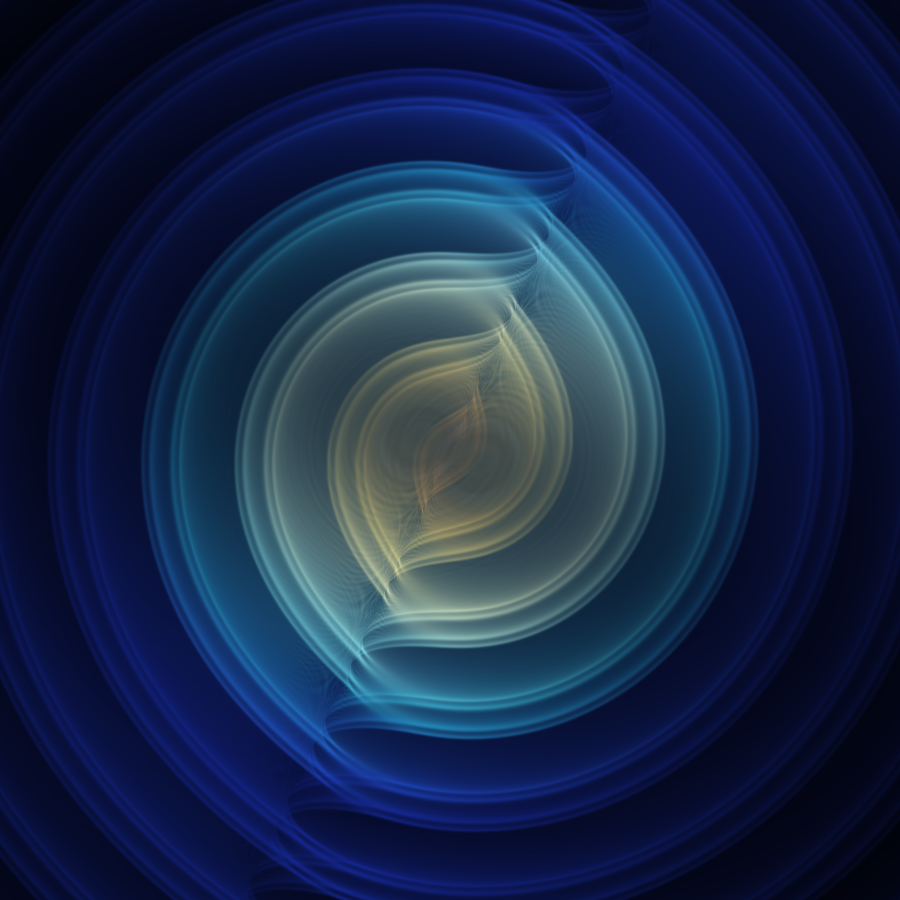
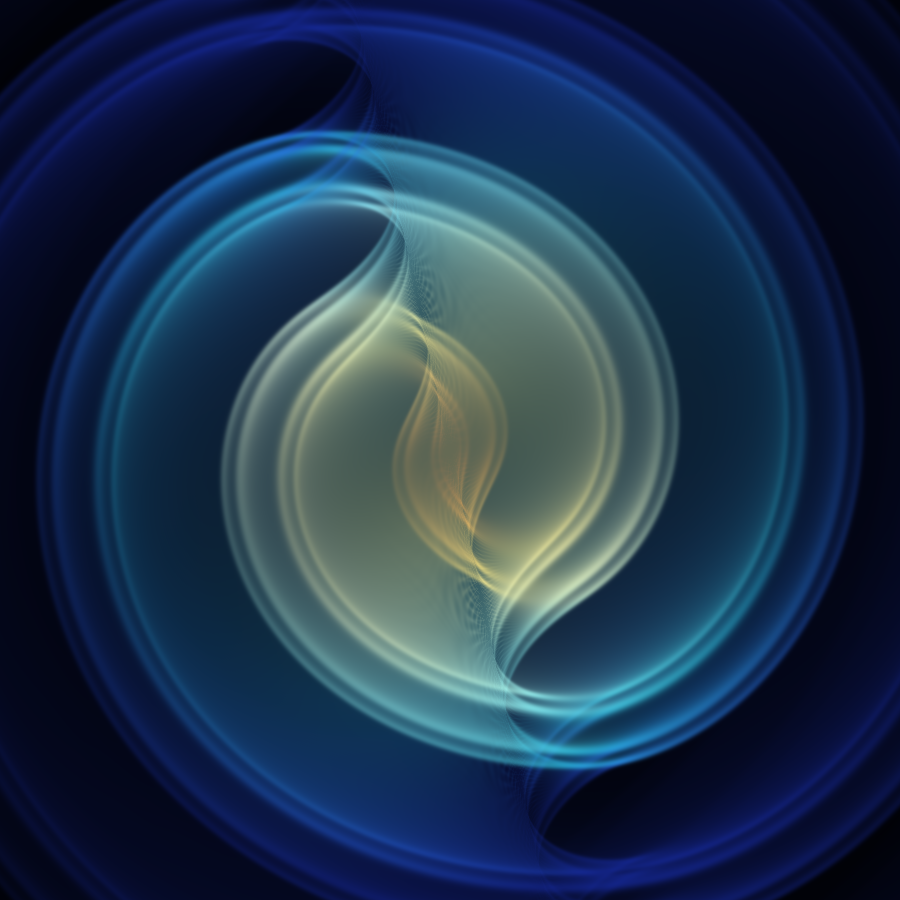
u

diff --git a/playground/xWaves/gravWaveMath.py b/playground/xWaves/gravWaveMath.py
@@ -1,0 +1,127 @@
+import numpy as np
+import matplotlib.pyplot as plt
+from matplotlib.colors import LinearSegmentedColormap
+
+# -----------------------------
+# Parameters
+# -----------------------------
+n_surfaces = 22
+n_u = 180
+n_v = 360
+
+u = np.linspace(0, 1, n_u)
+v = np.linspace(0, 2 * np.pi, n_v)
+
+U, V = np.meshgrid(u, v, indexing="ij")
+
+# Colormap: blue -> cyan -> yellow
+colors = [
+    (0.01, 0.03, 0.15),
+    (0.00, 0.25, 0.45),
+    (0.05, 0.65, 0.70),
+    (0.95, 0.90, 0.45),
+    (1.00, 0.75, 0.20)
+]
+cmap = LinearSegmentedColormap.from_list("binary_wave", colors)
+
+fig = plt.figure(figsize=(10, 10), facecolor="black")
+ax = fig.add_subplot(111, projection="3d")
+ax.set_facecolor("black")
+
+# -----------------------------
+# Create multiple curved surfaces
+# -----------------------------
+for k in range(n_surfaces):
+    z0 = -1.0 + 2.0 * k / (n_surfaces - 1)
+
+    # Scale changes along the vertical direction
+    width = 1.05 + 0.95 * abs(z0) ** 0.75
+    thickness = 0.13 + 0.05 * (1 - abs(z0))
+
+    # Radial profile: narrow at center, broad at the outside
+    radius = 0.20 + 1.05 * U ** 0.75
+
+    # Elliptical coordinates
+    X0 = width * radius * np.cos(V)
+    Y0 = 0.62 * radius * np.sin(V)
+
+    # Spiral / wave deformation
+    phase = 5.5 * U + 2.2 * z0
+    wave = (
+        0.18 * np.sin(3 * V + phase)
+        + 0.08 * np.sin(7 * V - 2 * phase)
+    )
+
+    # Make two broad lobes
+    lobe = 0.28 * np.cos(2 * V) * (U ** 1.4)
+
+    X0 = X0 + lobe * np.cos(V)
+    Y0 = Y0 + lobe * np.sin(V)
+
+    # Curvature in the third dimension
+    Z0 = z0 + thickness * wave * (0.25 + U)
+
+    # Rotate each surface slightly
+    theta = 0.35 * z0 + 0.20 * np.sin(2 * z0)
+
+    X = X0 * np.cos(theta) - Y0 * np.sin(theta)
+    Y = X0 * np.sin(theta) + Y0 * np.cos(theta)
+    Z = Z0
+
+    # Color varies with height and radial position
+    color_value = (
+        0.45
+        + 0.35 * z0
+        + 0.20 * U
+        + 0.08 * np.sin(2 * V)
+    )
+
+    ax.plot_surface(
+        X, Y, Z,
+        facecolors=cmap(np.clip(color_value, 0, 1)),
+        rstride=2,
+        cstride=3,
+        linewidth=0,
+        antialiased=True,
+        shade=True,
+        alpha=0.30 + 0.025 * k
+    )
+
+# -----------------------------
+# Add thin orbital / trajectory lines
+# -----------------------------
+t = np.linspace(0, 2 * np.pi, 1000)
+
+for scale, angle, alpha in [
+    (1.00, 0.15, 0.8),
+    (1.25, -0.55, 0.5),
+    (1.45, 0.80, 0.4)
+]:
+    x = scale * np.cos(t)
+    y = 0.58 * scale * np.sin(t)
+    z = 0.35 * np.sin(2 * t + angle)
+
+    # Rotate trajectory
+    xr = x * np.cos(angle) - y * np.sin(angle)
+    yr = x * np.sin(angle) + y * np.cos(angle)
+
+    ax.plot(
+        xr, yr, z,
+        color=(0.65, 0.85, 1.0),
+        linewidth=0.45,
+        alpha=alpha
+    )
+
+# -----------------------------
+# Appearance
+# -----------------------------
+ax.set_xlim(-2.0, 2.0)
+ax.set_ylim(-1.8, 1.8)
+ax.set_zlim(-1.35, 1.35)
+
+ax.view_init(elev=18, azim=-62)
+ax.set_box_aspect((1.2, 1.0, 0.85))
+
+ax.set_axis_off()
+plt.tight_layout()
+plt.show()

diff --git a/playground/xWaves/2WavesStatic.py b/playground/xWaves/2WavesStatic.py
@@ -26,9 +26,9 @@ FADE    = 0.80         # radial fall-off of amplitude
 LEVELS  = np.array([0.30, 0.75])               # iso-levels of cos(phase) that become shells
 SIGMA   = 0.11         # shell thickness
 ALPHA   = 2.6          # overall opacity
-TILT, ROLL = 70, 25   # view angles (degrees): tilt of orbital axis, in-plane roll
+TILT, ROLL = 58, -12   # view angles (degrees): tilt of orbital axis, in-plane roll
 GAIN    = 1.3          # exposure
-COLOR_R = 0.62         # radius that maps to the blue end of the colormap
+COLOR_R = 0.75         # radius that maps to the blue end of the colormap
 SHOW_AXES = False      # the two thin white lines in the reference image
 
 # colour by radius: core -> outskirts
